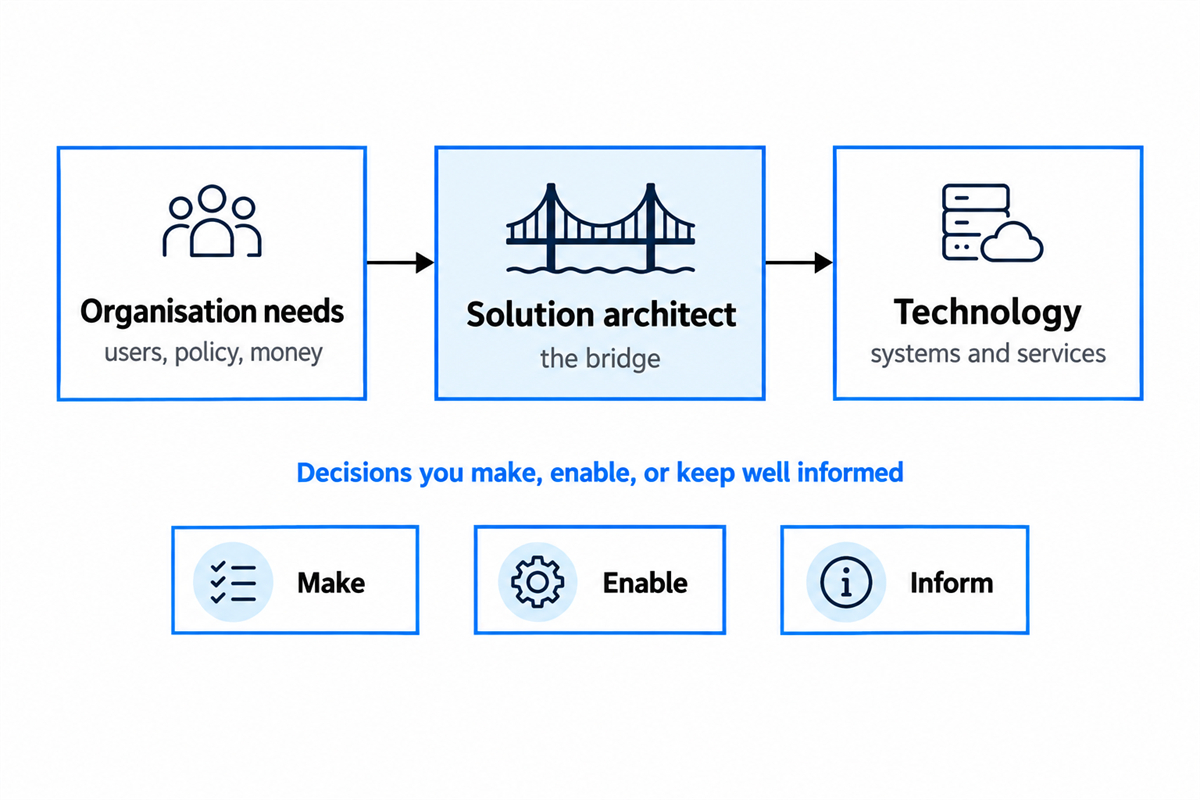
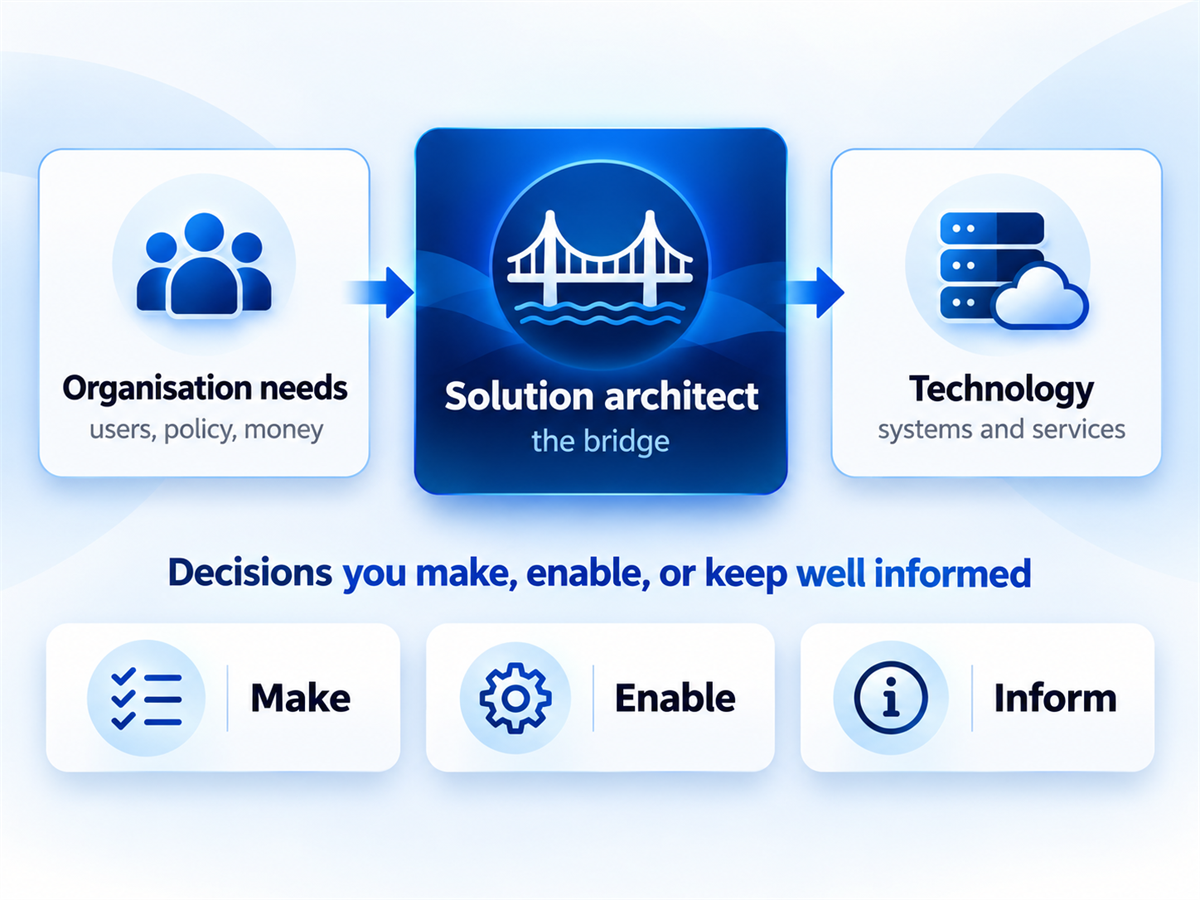
Update lesson 1 images to new 4:3 versions; correct img dimensions to 1200x900 to match (were 1200x800)

diff --git a/guide-what-a-solution-architect-does.html b/guide-what-a-solution-architect-does.html
@@ -1,4 +1,4 @@
-<!DOCTYPE html>
+<!DOCTYPE html>
 <html lang="en-GB">
 <head>
   <meta charset="UTF-8">
@@ -63,7 +63,7 @@
       <p>In practice, this puts the Solution Architect between organisational needs and technical delivery. You need enough understanding of both to see how decisions in one area affect another.</p>
 
       <figure>
-        <img width="1200" height="800" loading="lazy" decoding="async" src="images/lesson1-image1.png" alt="Diagram: the Solution Architect as the bridge between organisation needs and technology, making and informing decisions.">
+        <img width="1200" height="900" loading="lazy" decoding="async" src="images/lesson1-image1.png" alt="Diagram: the Solution Architect as the bridge between organisation needs and technology, making and informing decisions.">
         <!-- <figcaption>What the role actually involves: making decisions, enabling them, and keeping them well informed.</figcaption>-->
       </figure>
 
@@ -98,7 +98,7 @@
       <p>Architecture roles overlap, and organisations divide responsibilities differently. The <a href="https://ddat-capability-framework.service.gov.uk/" target="_blank" rel="noopener">Government Digital and Data Profession Capability Framework</a> nevertheless provides useful distinctions.</p>
 
       <figure>
-        <img width="1200" height="800" loading="lazy" decoding="async" src="images/lesson1-image2.png" alt="Diagram: the Solution Architect as the integrator, connected to the Enterprise, Technical, Business and Data Architect roles.">
+        <img width="1200" height="900" loading="lazy" decoding="async" src="images/lesson1-image2.png" alt="Diagram: the Solution Architect as the integrator, connected to the Enterprise, Technical, Business and Data Architect roles.">
        <!-- <figcaption>Where the Solution Architect sits relative to the other architecture roles.</figcaption>-->
       </figure>
 
@@ -113,7 +113,7 @@
       <p>There is no official set of "four hats" for Solution Architects, but the following model is a useful way to think about the different kinds of work involved.</p>
 
       <figure>
-        <img width="1200" height="800" loading="lazy" decoding="async" src="images/lesson1-image3.png" alt="Diagram: the four hats a Solution Architect wears, translator, decision-maker, risk manager and quality guardian.">
+        <img width="1200" height="900" loading="lazy" decoding="async" src="images/lesson1-image3.png" alt="Diagram: the four hats a Solution Architect wears, translator, decision-maker, risk manager and quality guardian.">
         <!--<figcaption>The four core responsibilities you balance, often several at once.</figcaption>-->
       </figure>
 
